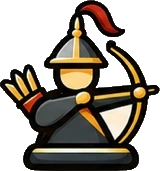
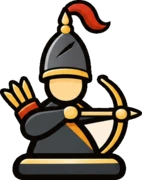
Clarify Duel of Khans bishops and Illustrated board badges

diff --git a/public/games/mongols-chess/index.html b/public/games/mongols-chess/index.html
@@ -93,6 +93,6 @@
     <div id="move-options"></div>
     <form method="dialog"><button>Cancel</button></form>
   </dialog>
-  <script type="module" src="./app.mjs?v=52"></script>
+  <script type="module" src="./app.mjs?v=57"></script>
 </body>
 </html>
